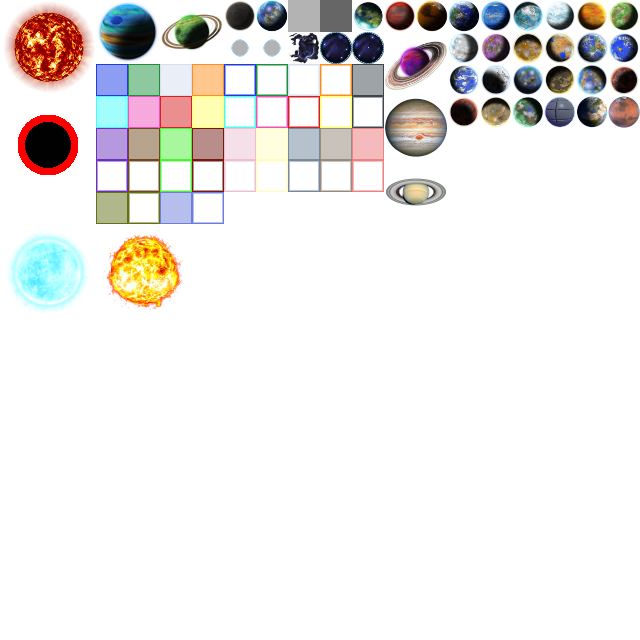
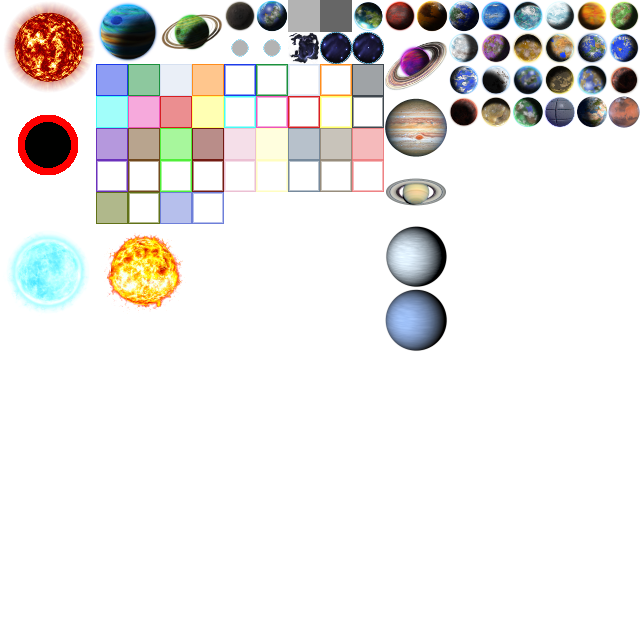
#525 Adds two new ice giant images.
These are not used in actual game yet.

Changed region(s): [[0.5938, 0.3438, 0.7188, 0.5625]]

diff --git a/src/main/java/org/openRealmOfStars/game/States/CreditsView.java b/src/main/java/org/openRealmOfStars/game/States/CreditsView.java
@@ -138,6 +138,10 @@ public class CreditsView extends BlackPanel {
       + "This includes full planet image and map tile scaled from original\n"
       + "Licensed under CC BY 4.0\n"
       + "http://creativecommons.org/licenses/by/4.0/\n\n"
+      + "18 Planet Variations by Hansjörg Malthaner\n"
+      + "http://opengameart.org/users/varkalandar\n"
+      + "Licensed under CC BY 3.0\n"
+      + "http://creativecommons.org/licenses/by/3.0/\n\n"
       + "GBNC logo by Tuomo Untinen\n\n"
       + "Worm hole by Tuomo Untinen\n\n"
       + "Privateering effect in combat by Tuomo Untinen\n\n"

diff --git a/AUTHORS.md b/AUTHORS.md
@@ -101,6 +101,11 @@ This includes full planet image and map tile scaled from original
 Licensed under CC BY 4.0
 http://creativecommons.org/licenses/by/4.0/
 
+18 Planet Variations by Hansjörg Malthaner
+http://opengameart.org/users/varkalandar
+Licensed under CC BY 3.0
+http://creativecommons.org/licenses/by/3.0/
+
 GBNC logo by Tuomo Untinen
 
 Worm hole by Tuomo Untinen
